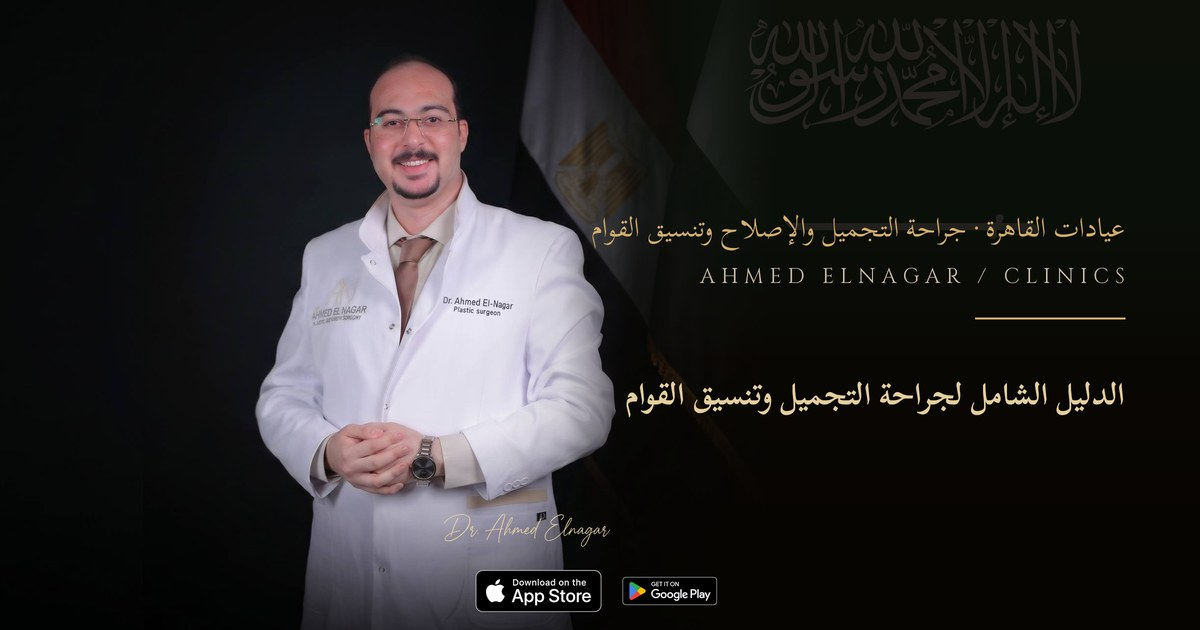
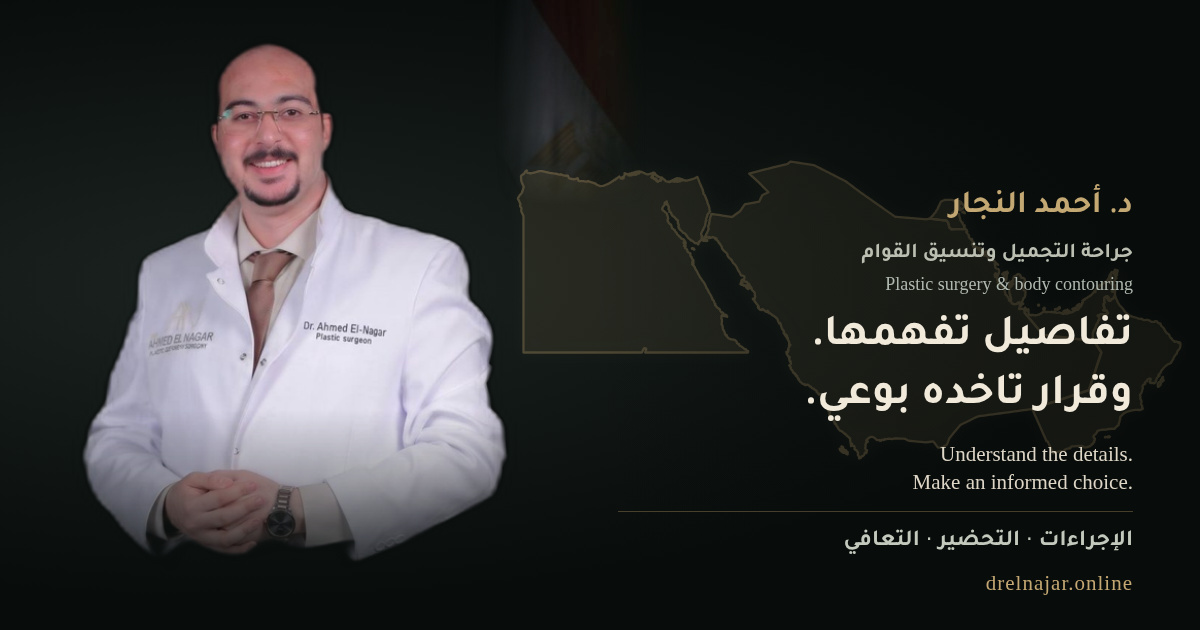
Update approved WhatsApp preview cover with Egypt and Gulf map

diff --git a/index.html b/index.html
@@ -1,4 +1,4 @@
-<!doctype html><html><head><script>if(!matchMedia("(prefers-reduced-motion: reduce)").matches)document.documentElement.classList.add("mo-js");</script><meta charset="utf-8"><meta name="viewport" content="width=device-width,initial-scale=1"><link rel="icon" href="/favicon.ico"><title>د. أحمد النجار | عيادات القاهرة</title><meta name="description" content="قرار تجميلي واعٍ يبدأ من فهم التشريح - قارن التقنيات، وحضّر استشارتك، وتابع تعافيك بخصوصية تامة."><meta property="og:type" content="website"><meta property="og:url" content="https://drelnajar.online/"><meta property="og:title" content="د. أحمد النجار | عيادات القاهرة"><meta property="og:description" content="قرار تجميلي واعٍ يبدأ من فهم التشريح - قارن التقنيات، وحضّر استشارتك، وتابع تعافيك بخصوصية تامة."><meta property="og:image" content="https://drelnajar.online/og-cover.jpg"><meta property="og:image:width" content="1200"><meta property="og:image:height" content="630"><meta property="og:locale" content="ar_AR"><meta name="twitter:card" content="summary_large_image"><meta name="twitter:title" content="د. أحمد النجار | عيادات القاهرة"><meta name="twitter:description" content="قرار تجميلي واعٍ يبدأ من فهم التشريح - قارن التقنيات، وحضّر استشارتك، وتابع تعافيك بخصوصية تامة."><meta name="twitter:image" content="https://drelnajar.online/og-cover.jpg"></head><body><div id="root"></div><script>const configuration={"documents":["assets/27EPABUW.jpg","assets/2GDO4YZL.jpg","assets/2L3TNOC4.woff2","assets/2RRSHES5.svg","assets/2UZGGN5X.ttf","assets/3LQJYGTT.jpg","assets/3OKKLIJI.jpg","assets/3VLUUZVW.jpg","assets/4PMA2CVD.jpg","assets/4QQHBH5X.jpg","assets/4QQUEGWD.ttf","assets/6HBTCF3E.woff2","assets/6I7JDOLB.jpg","assets/6LK6D4RL.jpg","assets/6SKFFXOF.jpg","assets/74XCYRBK.jpg","assets/7FJDSO3H.woff2","assets/7NYFVZGT.jpg","assets/7UAGB34N.woff2","assets/7UOL75YJ.jpg","assets/AHYMMAWC.woff2","assets/ATEWAVQ3.svg","assets/AX4RHTO6.jpg","assets/BKOM2CL3.jpg","assets/CR2CLQFW.jpg","assets/DCUCO6EG.woff2","assets/E34RMFMI.woff2","assets/EDUFJISK.woff2","assets/EGJVQ6VC.jpg","assets/ESVYJHOG.woff2","assets/EUUK2S3I.mp4","assets/EYXGVZ5N.jpg","assets/FAN2PI5J.jpg","assets/FLOLJUTR.jpg","assets/FO4ZPK5E.jpg","assets/G3OI5XRX.mp4","assets/GUFYKJ2S.woff2","assets/GWBPHQBQ.woff2","assets/GXLED5QY.jpg","assets/HF33D6CY.jpg","assets/I27ZNCHR.jpg","assets/IAZKFRIH.jpg","assets/IIHSRNNZ.jpg","assets/JGDZ6EXT.jpg","assets/JJ5L2PH5.jpg","assets/KOZI3E7V.jpg","assets/KYX3IO2Q.jpg","assets/KZYIEKM3.woff2","assets/LDDSMR47.woff2","assets/LXBYC3LU.jpg","assets/M4SQ7PEA.jpg","assets/M7E3UDJ5.ttf","assets/MOJBB5CB.jpg","assets/N6UYPSOR.jpg","assets/NWB6OIJB.jpg","assets/O3ILYMRB.jpg","assets/O5E42XG2.jpg","assets/ONL4XYAY.jpg","assets/ORU7V7KF.jpg","assets/OT3O3CZF.jpg","assets/PQNVRRKH.otf","assets/PRYIPN2R.jpg","assets/PSTPBQX3.jpg","assets/QAMMJAKP.jpg","assets/QFEI37A2.jpg","assets/QLS63EYT.jpg","assets/RK4X2PXO.woff2","assets/RQLJW4SI.mp4","assets/SK3TDOSZ.jpg","assets/SQ2TYPB3.jpg","assets/TAJGXRMF.jpg","assets/TIRZ4HI3.jpg","assets/TVTZVQI3.jpg","assets/UW2MGOG6.jpg","assets/VEGU7V2H.jpg","assets/VHIEOLEH.jpg","assets/WBTVGCQI.jpg","assets/WM77GZQE.ttf","assets/X2DT36O3.jpg","assets/XR36YW2X.jpg","assets/XWOIYYX7.woff2","assets/YFHS7PRD.jpg","assets/ZDDRCLEL.jpg","assets/ZITNQAWX.woff2","assets/ZLWKNQWL.jpg"],"hasStyles":true,"host":"https://drelnajar.online","lease":"","origin":"https://files.instinct.com"};
+<!doctype html><html><head><script>if(!matchMedia("(prefers-reduced-motion: reduce)").matches)document.documentElement.classList.add("mo-js");</script><meta charset="utf-8"><meta name="viewport" content="width=device-width,initial-scale=1"><link rel="icon" href="/favicon.ico"><title>د. أحمد النجار | عيادات القاهرة</title><meta name="description" content="قرار تجميلي واعٍ يبدأ من فهم التشريح - قارن التقنيات، وحضّر استشارتك، وتابع تعافيك بخصوصية تامة."><meta property="og:type" content="website"><meta property="og:url" content="https://drelnajar.online/"><meta property="og:title" content="د. أحمد النجار | عيادات القاهرة"><meta property="og:description" content="قرار تجميلي واعٍ يبدأ من فهم التشريح - قارن التقنيات، وحضّر استشارتك، وتابع تعافيك بخصوصية تامة."><meta property="og:image" content="https://drelnajar.online/og-cover-20261123.jpg"><meta property="og:image:width" content="1200"><meta property="og:image:height" content="630"><meta property="og:locale" content="ar_AR"><meta name="twitter:card" content="summary_large_image"><meta name="twitter:title" content="د. أحمد النجار | عيادات القاهرة"><meta name="twitter:description" content="قرار تجميلي واعٍ يبدأ من فهم التشريح - قارن التقنيات، وحضّر استشارتك، وتابع تعافيك بخصوصية تامة."><meta name="twitter:image" content="https://drelnajar.online/og-cover-20261123.jpg"></head><body><div id="root"></div><script>const configuration={"documents":["assets/27EPABUW.jpg","assets/2GDO4YZL.jpg","assets/2L3TNOC4.woff2","assets/2RRSHES5.svg","assets/2UZGGN5X.ttf","assets/3LQJYGTT.jpg","assets/3OKKLIJI.jpg","assets/3VLUUZVW.jpg","assets/4PMA2CVD.jpg","assets/4QQHBH5X.jpg","assets/4QQUEGWD.ttf","assets/6HBTCF3E.woff2","assets/6I7JDOLB.jpg","assets/6LK6D4RL.jpg","assets/6SKFFXOF.jpg","assets/74XCYRBK.jpg","assets/7FJDSO3H.woff2","assets/7NYFVZGT.jpg","assets/7UAGB34N.woff2","assets/7UOL75YJ.jpg","assets/AHYMMAWC.woff2","assets/ATEWAVQ3.svg","assets/AX4RHTO6.jpg","assets/BKOM2CL3.jpg","assets/CR2CLQFW.jpg","assets/DCUCO6EG.woff2","assets/E34RMFMI.woff2","assets/EDUFJISK.woff2","assets/EGJVQ6VC.jpg","assets/ESVYJHOG.woff2","assets/EUUK2S3I.mp4","assets/EYXGVZ5N.jpg","assets/FAN2PI5J.jpg","assets/FLOLJUTR.jpg","assets/FO4ZPK5E.jpg","assets/G3OI5XRX.mp4","assets/GUFYKJ2S.woff2","assets/GWBPHQBQ.woff2","assets/GXLED5QY.jpg","assets/HF33D6CY.jpg","assets/I27ZNCHR.jpg","assets/IAZKFRIH.jpg","assets/IIHSRNNZ.jpg","assets/JGDZ6EXT.jpg","assets/JJ5L2PH5.jpg","assets/KOZI3E7V.jpg","assets/KYX3IO2Q.jpg","assets/KZYIEKM3.woff2","assets/LDDSMR47.woff2","assets/LXBYC3LU.jpg","assets/M4SQ7PEA.jpg","assets/M7E3UDJ5.ttf","assets/MOJBB5CB.jpg","assets/N6UYPSOR.jpg","assets/NWB6OIJB.jpg","assets/O3ILYMRB.jpg","assets/O5E42XG2.jpg","assets/ONL4XYAY.jpg","assets/ORU7V7KF.jpg","assets/OT3O3CZF.jpg","assets/PQNVRRKH.otf","assets/PRYIPN2R.jpg","assets/PSTPBQX3.jpg","assets/QAMMJAKP.jpg","assets/QFEI37A2.jpg","assets/QLS63EYT.jpg","assets/RK4X2PXO.woff2","assets/RQLJW4SI.mp4","assets/SK3TDOSZ.jpg","assets/SQ2TYPB3.jpg","assets/TAJGXRMF.jpg","assets/TIRZ4HI3.jpg","assets/TVTZVQI3.jpg","assets/UW2MGOG6.jpg","assets/VEGU7V2H.jpg","assets/VHIEOLEH.jpg","assets/WBTVGCQI.jpg","assets/WM77GZQE.ttf","assets/X2DT36O3.jpg","assets/XR36YW2X.jpg","assets/XWOIYYX7.woff2","assets/YFHS7PRD.jpg","assets/ZDDRCLEL.jpg","assets/ZITNQAWX.woff2","assets/ZLWKNQWL.jpg"],"hasStyles":true,"host":"https://drelnajar.online","lease":"","origin":"https://files.instinct.com"};
 (() => {
  let lease = configuration.lease;
  const started = performance.now();
